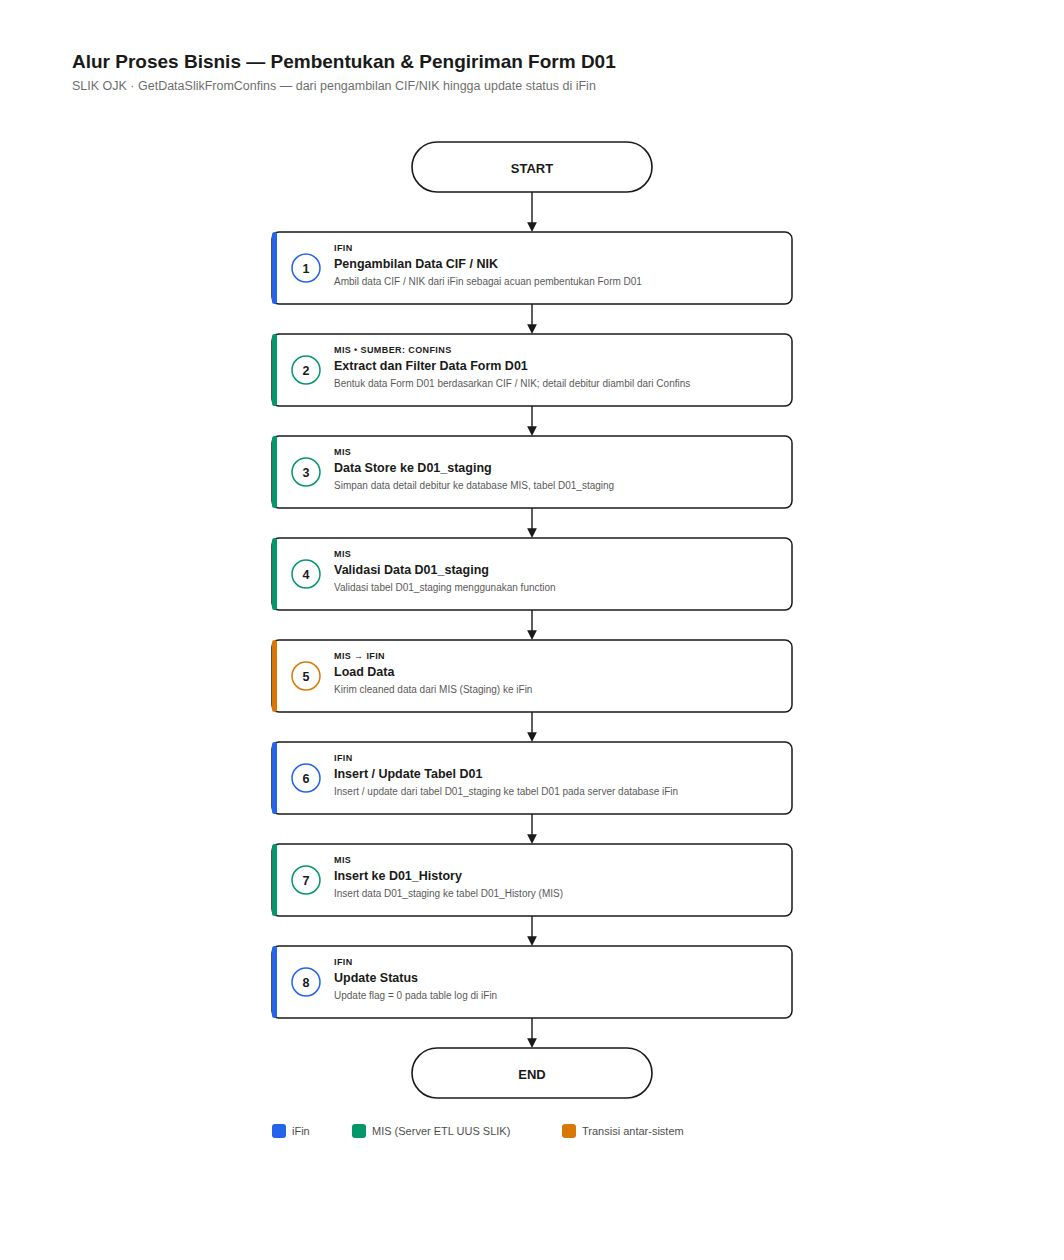
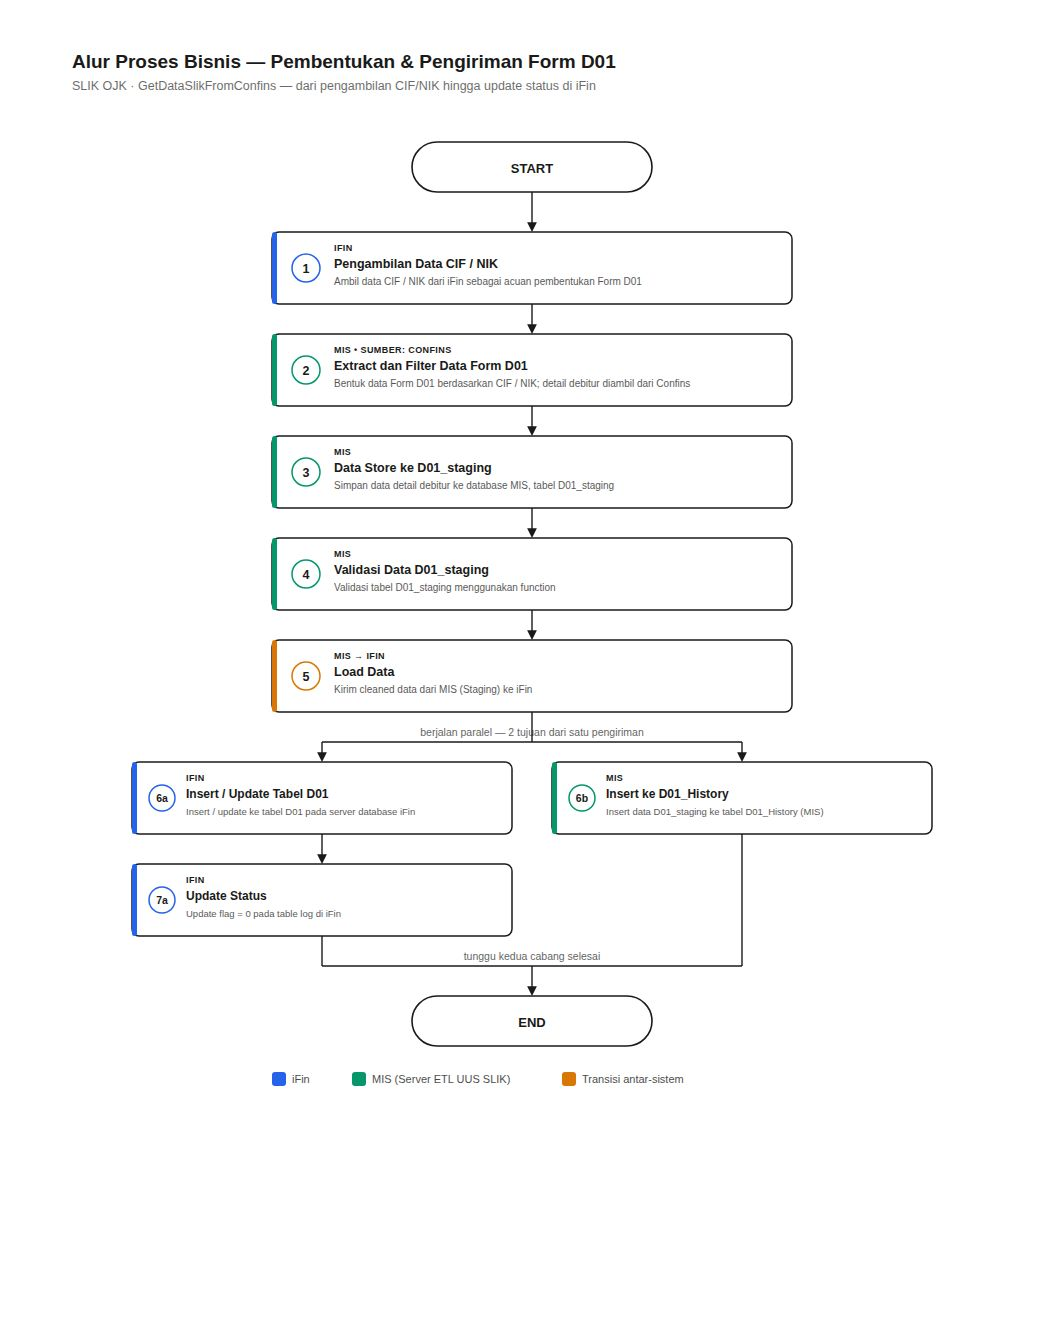
Reshape steps 6/7 into a parallel fork after Load Data
Insert/Update Tabel D01 + Update Status (iFin) and Insert ke D01_History
(MIS) are two destinations of the same send, not sequential steps -
mirrors the Multicast pattern already used in the SSIS control-flow
diagram. Renumbered to 6a/7a (iFin branch) and 6b (MIS branch), converging
before END.

Changed region(s): [[0.062, 0.031, 0.7754, 0.8667], [0.5273, 0.8667, 0.5583, 0.9286], [0.4342, 0.8667, 0.4652, 0.8976]]

diff --git a/diagrams/slik-d01-business-flow.html b/diagrams/slik-d01-business-flow.html
@@ -25,7 +25,7 @@
 </head>
 <body>
   <figure>
-    <svg viewBox="0 0 1000 1150" role="img" aria-label="Alur proses bisnis 8 langkah pembentukan dan pengiriman Form D01: mulai dari pengambilan CIF/NIK dari iFin, pembentukan data dari Confins, penyimpanan dan validasi di staging MIS, pengiriman ke iFin, insert/update tabel D01, insert ke history, hingga update status di iFin.">
+    <svg viewBox="0 0 1000 1230" role="img" aria-label="Alur proses bisnis pembentukan dan pengiriman Form D01: dari pengambilan CIF/NIK di iFin, pembentukan data dari Confins, penyimpanan dan validasi di staging MIS, pengiriman data ke iFin yang lalu bercabang jadi dua tujuan paralel — insert/update tabel D01 dan update status di iFin, serta insert ke tabel history di MIS — sebelum berakhir.">
       <defs>
         <marker id="arrow" viewBox="0 0 10 10" refX="8" refY="5" markerWidth="7" markerHeight="7" orient="auto-start-reverse">
           <path d="M 0 0 L 10 5 L 0 10 z" fill="currentColor"/>
@@ -40,7 +40,6 @@
       <rect x="380" y="110" width="240" height="50" rx="25" fill="none" stroke="currentColor" stroke-width="1.6"/>
       <text x="500" y="141" text-anchor="middle" font-size="13" font-weight="650">START</text>
       <line x1="500" y1="160" x2="500" y2="198" stroke="currentColor" stroke-width="1.4" marker-end="url(#arrow)"/>
-
 
       <!-- Step 1 -->
       <rect x="240" y="200" width="520" height="72" rx="7" fill="none" stroke="currentColor" stroke-width="1.5"/>
@@ -90,55 +89,64 @@
       <text x="302" y="627" font-size="9" font-weight="650" letter-spacing="0.4" fill="#d97706">MIS → IFIN</text>
       <text x="302" y="644" font-size="12.5" font-weight="650">Load Data</text>
       <text x="302" y="661" font-size="10" opacity="0.75">Kirim cleaned data dari MIS (Staging) ke iFin</text>
-      <line x1="500.0" y1="680" x2="500.0" y2="708" stroke="currentColor" stroke-width="1.4" marker-end="url(#arrow)"/>
 
-      <!-- Step 6 -->
-      <rect x="240" y="710" width="520" height="72" rx="7" fill="none" stroke="currentColor" stroke-width="1.5"/>
-      <rect x="240" y="710" width="5" height="72" rx="2.5" fill="#2563eb"/>
-      <circle cx="274" cy="746.0" r="14" fill="none" stroke="#2563eb" stroke-width="1.5"/>
-      <text x="274" y="750.5" text-anchor="middle" font-size="12.5" font-weight="700" fill="#2563eb">6</text>
-      <text x="302" y="729" font-size="9" font-weight="650" letter-spacing="0.4" fill="#2563eb">IFIN</text>
-      <text x="302" y="746" font-size="12.5" font-weight="650">Insert / Update Tabel D01</text>
-      <text x="302" y="763" font-size="10" opacity="0.75">Insert / update dari tabel D01_staging ke tabel D01 pada server database iFin</text>
-      <line x1="500.0" y1="782" x2="500.0" y2="810" stroke="currentColor" stroke-width="1.4" marker-end="url(#arrow)"/>
+      <!-- Fork -->
+      <line x1="500" y1="680" x2="500" y2="710" stroke="currentColor" stroke-width="1.4"/>
+      <line x1="290.0" y1="710" x2="710.0" y2="710" stroke="currentColor" stroke-width="1.4"/>
+      <line x1="290.0" y1="710" x2="290.0" y2="728" stroke="currentColor" stroke-width="1.4" marker-end="url(#arrow)"/>
+      <line x1="710.0" y1="710" x2="710.0" y2="728" stroke="currentColor" stroke-width="1.4" marker-end="url(#arrow)"/>
+      <text x="500" y="704" text-anchor="middle" font-size="10.5" opacity="0.7">berjalan paralel — 2 tujuan dari satu pengiriman</text>
 
-      <!-- Step 7 -->
-      <rect x="240" y="812" width="520" height="72" rx="7" fill="none" stroke="currentColor" stroke-width="1.5"/>
-      <rect x="240" y="812" width="5" height="72" rx="2.5" fill="#059669"/>
-      <circle cx="274" cy="848.0" r="14" fill="none" stroke="#059669" stroke-width="1.5"/>
-      <text x="274" y="852.5" text-anchor="middle" font-size="12.5" font-weight="700" fill="#059669">7</text>
-      <text x="302" y="831" font-size="9" font-weight="650" letter-spacing="0.4" fill="#059669">MIS</text>
-      <text x="302" y="848" font-size="12.5" font-weight="650">Insert ke D01_History</text>
-      <text x="302" y="865" font-size="10" opacity="0.75">Insert data D01_staging ke tabel D01_History (MIS)</text>
-      <line x1="500.0" y1="884" x2="500.0" y2="912" stroke="currentColor" stroke-width="1.4" marker-end="url(#arrow)"/>
+      <!-- Step 6a -->
+      <rect x="100" y="730" width="380" height="72" rx="7" fill="none" stroke="currentColor" stroke-width="1.5"/>
+      <rect x="100" y="730" width="5" height="72" rx="2.5" fill="#2563eb"/>
+      <circle cx="130" cy="766.0" r="13" fill="none" stroke="#2563eb" stroke-width="1.5"/>
+      <text x="130" y="770.0" text-anchor="middle" font-size="10.5" font-weight="700" fill="#2563eb">6a</text>
+      <text x="154" y="749" font-size="9" font-weight="650" letter-spacing="0.4" fill="#2563eb">IFIN</text>
+      <text x="154" y="766" font-size="12" font-weight="650">Insert / Update Tabel D01</text>
+      <text x="154" y="783" font-size="9.5" opacity="0.75">Insert / update ke tabel D01 pada server database iFin</text>
+      <line x1="290.0" y1="802" x2="290.0" y2="830" stroke="currentColor" stroke-width="1.4" marker-end="url(#arrow)"/>
 
-      <!-- Step 8 -->
-      <rect x="240" y="914" width="520" height="72" rx="7" fill="none" stroke="currentColor" stroke-width="1.5"/>
-      <rect x="240" y="914" width="5" height="72" rx="2.5" fill="#2563eb"/>
-      <circle cx="274" cy="950.0" r="14" fill="none" stroke="#2563eb" stroke-width="1.5"/>
-      <text x="274" y="954.5" text-anchor="middle" font-size="12.5" font-weight="700" fill="#2563eb">8</text>
-      <text x="302" y="933" font-size="9" font-weight="650" letter-spacing="0.4" fill="#2563eb">IFIN</text>
-      <text x="302" y="950" font-size="12.5" font-weight="650">Update Status</text>
-      <text x="302" y="967" font-size="10" opacity="0.75">Update flag = 0 pada table log di iFin</text>
+      <!-- Step 7a -->
+      <rect x="100" y="832" width="380" height="72" rx="7" fill="none" stroke="currentColor" stroke-width="1.5"/>
+      <rect x="100" y="832" width="5" height="72" rx="2.5" fill="#2563eb"/>
+      <circle cx="130" cy="868.0" r="13" fill="none" stroke="#2563eb" stroke-width="1.5"/>
+      <text x="130" y="872.0" text-anchor="middle" font-size="10.5" font-weight="700" fill="#2563eb">7a</text>
+      <text x="154" y="851" font-size="9" font-weight="650" letter-spacing="0.4" fill="#2563eb">IFIN</text>
+      <text x="154" y="868" font-size="12" font-weight="650">Update Status</text>
+      <text x="154" y="885" font-size="9.5" opacity="0.75">Update flag = 0 pada table log di iFin</text>
 
+      <!-- Step 6b -->
+      <rect x="520" y="730" width="380" height="72" rx="7" fill="none" stroke="currentColor" stroke-width="1.5"/>
+      <rect x="520" y="730" width="5" height="72" rx="2.5" fill="#059669"/>
+      <circle cx="550" cy="766.0" r="13" fill="none" stroke="#059669" stroke-width="1.5"/>
+      <text x="550" y="770.0" text-anchor="middle" font-size="10.5" font-weight="700" fill="#059669">6b</text>
+      <text x="574" y="749" font-size="9" font-weight="650" letter-spacing="0.4" fill="#059669">MIS</text>
+      <text x="574" y="766" font-size="12" font-weight="650">Insert ke D01_History</text>
+      <text x="574" y="783" font-size="9.5" opacity="0.75">Insert data D01_staging ke tabel D01_History (MIS)</text>
 
-      <line x1="500" y1="986" x2="500" y2="1014" stroke="currentColor" stroke-width="1.4" marker-end="url(#arrow)"/>
+      <!-- Converge -->
+      <line x1="290.0" y1="904" x2="290.0" y2="934" stroke="currentColor" stroke-width="1.4"/>
+      <line x1="710.0" y1="802" x2="710.0" y2="934" stroke="currentColor" stroke-width="1.4"/>
+      <line x1="290.0" y1="934" x2="710.0" y2="934" stroke="currentColor" stroke-width="1.4"/>
+      <text x="500" y="928" text-anchor="middle" font-size="10.5" opacity="0.7">tunggu kedua cabang selesai</text>
+      <line x1="500" y1="934" x2="500" y2="962" stroke="currentColor" stroke-width="1.4" marker-end="url(#arrow)"/>
 
       <!-- End -->
-      <rect x="380" y="1016" width="240" height="50" rx="25" fill="none" stroke="currentColor" stroke-width="1.6"/>
-      <text x="500" y="1047" text-anchor="middle" font-size="13" font-weight="650">END</text>
+      <rect x="380" y="964" width="240" height="50" rx="25" fill="none" stroke="currentColor" stroke-width="1.6"/>
+      <text x="500" y="995" text-anchor="middle" font-size="13" font-weight="650">END</text>
 
       <!-- Legend -->
-      <rect x="240" y="1092" width="14" height="14" rx="3" fill="#2563eb"/>
-      <text x="260" y="1103" font-size="11" opacity="0.8">iFin</text>
-      <rect x="320" y="1092" width="14" height="14" rx="3" fill="#059669"/>
-      <text x="340" y="1103" font-size="11" opacity="0.8">MIS (Server ETL UUS SLIK)</text>
-      <rect x="530" y="1092" width="14" height="14" rx="3" fill="#d97706"/>
-      <text x="550" y="1103" font-size="11" opacity="0.8">Transisi antar-sistem</text>
+      <rect x="240" y="1040" width="14" height="14" rx="3" fill="#2563eb"/>
+      <text x="260" y="1051" font-size="11" opacity="0.8">iFin</text>
+      <rect x="320" y="1040" width="14" height="14" rx="3" fill="#059669"/>
+      <text x="340" y="1051" font-size="11" opacity="0.8">MIS (Server ETL UUS SLIK)</text>
+      <rect x="530" y="1040" width="14" height="14" rx="3" fill="#d97706"/>
+      <text x="550" y="1051" font-size="11" opacity="0.8">Transisi antar-sistem</text>
     </svg>
 
     <figcaption>
-      Alur bisnis pembentukan Form D01 dari sisi non-teknis (di luar detail komponen SSIS): <b>iFin</b> memberi CIF/NIK sebagai pemicu, <b>MIS</b> membentuk &amp; memvalidasi data (mengambil detail debitur dari <b>Confins</b>) di tabel <code>D01_staging</code>, lalu dikirim kembali ke <b>iFin</b> untuk di-insert/update ke tabel <code>D01</code>. Salinan hasil disimpan ke <code>D01_History</code> di MIS untuk jejak audit sebelum status akhir di-update di iFin.
+      Alur bisnis pembentukan Form D01 dari sisi non-teknis (di luar detail komponen SSIS): <b>iFin</b> memberi CIF/NIK sebagai pemicu, <b>MIS</b> membentuk &amp; memvalidasi data (mengambil detail debitur dari <b>Confins</b>) di tabel <code>D01_staging</code>, lalu dikirim ke <b>iFin</b> pada langkah <b>5. Load Data</b>. Pengiriman ini punya <b>dua tujuan sekaligus</b> (mirip pola Multicast pada diagram SSIS teknis) — bukan dua langkah berurutan: <b>iFin</b> meng-insert/update tabel <code>D01</code> lalu meng-update status, sementara <b>MIS</b> secara paralel meng-insert salinan ke <code>D01_History</code> untuk jejak audit. Alur berakhir setelah kedua cabang selesai.
     </figcaption>
   </figure>
 </body>
